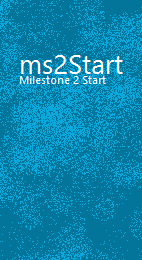
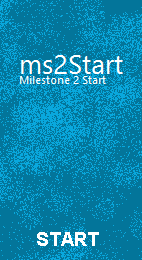
Various Changes 3.40
1. made a actual MS Help splash screen
2. Renamed the default forms, and the titles.
3. Added a "Browser" on IE.

Changed region(s): [[0.2535, 0.8923, 0.7042, 0.9538]]

diff --git a/MS2start/MShelp/Splash.Designer.cs b/MS2start/MShelp/Splash.Designer.cs
@@ -1,0 +1,98 @@
+namespace MShelp
+{
+    partial class Splash
+    {
+        /// <summary>
+        /// Required designer variable.
+        /// </summary>
+        private System.ComponentModel.IContainer components = null;
+
+        /// <summary>
+        /// Clean up any resources being used.
+        /// </summary>
+        /// <param name="disposing">true if managed resources should be disposed; otherwise, false.</param>
+        protected override void Dispose(bool disposing)
+        {
+            if (disposing && (components != null))
+            {
+                components.Dispose();
+            }
+            base.Dispose(disposing);
+        }
+
+        #region Windows Form Designer generated code
+
+        /// <summary>
+        /// Required method for Designer support - do not modify
+        /// the contents of this method with the code editor.
+        /// </summary>
+        private void InitializeComponent()
+        {
+            this.label1 = new System.Windows.Forms.Label();
+            this.pictureBox1 = new System.Windows.Forms.PictureBox();
+            this.panel1 = new System.Windows.Forms.Panel();
+            ((System.ComponentModel.ISupportInitialize)(this.pictureBox1)).BeginInit();
+            this.panel1.SuspendLayout();
+            this.SuspendLayout();
+            // 
+            // label1
+            // 
+            this.label1.Anchor = System.Windows.Forms.AnchorStyles.None;
+            this.label1.AutoSize = true;
+            this.label1.Font = new System.Drawing.Font("Segoe UI Light", 24F, System.Drawing.FontStyle.Regular, System.Drawing.GraphicsUnit.Point, ((byte)(0)));
+            this.label1.ForeColor = System.Drawing.Color.White;
+            this.label1.Location = new System.Drawing.Point(7, 47);
+            this.label1.Name = "label1";
+            this.label1.Size = new System.Drawing.Size(135, 45);
+            this.label1.TabIndex = 0;
+            this.label1.Text = "MS Help";
+            // 
+            // pictureBox1
+            // 
+            this.pictureBox1.Anchor = System.Windows.Forms.AnchorStyles.None;
+            this.pictureBox1.BackgroundImage = global::MShelp.Properties.Resources.SplashLogo;
+            this.pictureBox1.BackgroundImageLayout = System.Windows.Forms.ImageLayout.Center;
+            this.pictureBox1.Location = new System.Drawing.Point(60, 14);
+            this.pictureBox1.Name = "pictureBox1";
+            this.pictureBox1.Size = new System.Drawing.Size(27, 30);
+            this.pictureBox1.TabIndex = 1;
+            this.pictureBox1.TabStop = false;
+            // 
+            // panel1
+            // 
+            this.panel1.Anchor = ((System.Windows.Forms.AnchorStyles)((((System.Windows.Forms.AnchorStyles.Top | System.Windows.Forms.AnchorStyles.Bottom) 
+            | System.Windows.Forms.AnchorStyles.Left) 
+            | System.Windows.Forms.AnchorStyles.Right)));
+            this.panel1.Controls.Add(this.pictureBox1);
+            this.panel1.Controls.Add(this.label1);
+            this.panel1.Location = new System.Drawing.Point(223, 224);
+            this.panel1.Name = "panel1";
+            this.panel1.Size = new System.Drawing.Size(149, 99);
+            this.panel1.TabIndex = 2;
+            // 
+            // Splash
+            // 
+            this.AutoScaleDimensions = new System.Drawing.SizeF(6F, 13F);
+            this.AutoScaleMode = System.Windows.Forms.AutoScaleMode.Font;
+            this.BackColor = System.Drawing.Color.Red;
+            this.ClientSize = new System.Drawing.Size(594, 520);
+            this.Controls.Add(this.panel1);
+            this.Font = new System.Drawing.Font("Segoe UI Light", 8.25F, System.Drawing.FontStyle.Regular, System.Drawing.GraphicsUnit.Point, ((byte)(0)));
+            this.FormBorderStyle = System.Windows.Forms.FormBorderStyle.None;
+            this.Name = "Splash";
+            this.Text = "Splash";
+            this.WindowState = System.Windows.Forms.FormWindowState.Maximized;
+            ((System.ComponentModel.ISupportInitialize)(this.pictureBox1)).EndInit();
+            this.panel1.ResumeLayout(false);
+            this.panel1.PerformLayout();
+            this.ResumeLayout(false);
+
+        }
+
+        #endregion
+
+        private System.Windows.Forms.Label label1;
+        private System.Windows.Forms.PictureBox pictureBox1;
+        private System.Windows.Forms.Panel panel1;
+    }
+}

diff --git a/MS2start/MShelp/Properties/Resources.Designer.cs b/MS2start/MShelp/Properties/Resources.Designer.cs
@@ -8,10 +8,10 @@
 // </auto-generated>
 //------------------------------------------------------------------------------
 
-namespace MShelp.Properties
-{
-
-
+namespace MShelp.Properties {
+    using System;
+    
+    
     /// <summary>
     ///   A strongly-typed resource class, for looking up localized strings, etc.
     /// </summary>
@@ -19,52 +19,54 @@ namespace MShelp.Properties
     // class via a tool like ResGen or Visual Studio.
     // To add or remove a member, edit your .ResX file then rerun ResGen
     // with the /str option, or rebuild your VS project.
-    [global::System.CodeDom.Compiler.GeneratedCodeAttribute("System.Resources.Tools.StronglyTypedResourceBuilder", "4.0.0.0")]
+    [global::System.CodeDom.Compiler.GeneratedCodeAttribute("System.Resources.Tools.StronglyTypedResourceBuilder", "15.0.0.0")]
     [global::System.Diagnostics.DebuggerNonUserCodeAttribute()]
     [global::System.Runtime.CompilerServices.CompilerGeneratedAttribute()]
-    internal class Resources
-    {
-
+    internal class Resources {
+        
         private static global::System.Resources.ResourceManager resourceMan;
-
+        
         private static global::System.Globalization.CultureInfo resourceCulture;
-
+        
         [global::System.Diagnostics.CodeAnalysis.SuppressMessageAttribute("Microsoft.Performance", "CA1811:AvoidUncalledPrivateCode")]
-        internal Resources()
-        {
+        internal Resources() {
         }
-
+        
         /// <summary>
         ///   Returns the cached ResourceManager instance used by this class.
         /// </summary>
         [global::System.ComponentModel.EditorBrowsableAttribute(global::System.ComponentModel.EditorBrowsableState.Advanced)]
-        internal static global::System.Resources.ResourceManager ResourceManager
-        {
-            get
-            {
-                if ((resourceMan == null))
-                {
+        internal static global::System.Resources.ResourceManager ResourceManager {
+            get {
+                if (object.ReferenceEquals(resourceMan, null)) {
                     global::System.Resources.ResourceManager temp = new global::System.Resources.ResourceManager("MShelp.Properties.Resources", typeof(Resources).Assembly);
                     resourceMan = temp;
                 }
                 return resourceMan;
             }
         }
-
+        
         /// <summary>
         ///   Overrides the current thread's CurrentUICulture property for all
         ///   resource lookups using this strongly typed resource class.
         /// </summary>
         [global::System.ComponentModel.EditorBrowsableAttribute(global::System.ComponentModel.EditorBrowsableState.Advanced)]
-        internal static global::System.Globalization.CultureInfo Culture
-        {
-            get
-            {
+        internal static global::System.Globalization.CultureInfo Culture {
+            get {
                 return resourceCulture;
             }
-            set
-            {
+            set {
                 resourceCulture = value;
+            }
+        }
+        
+        /// <summary>
+        ///   Looks up a localized resource of type System.Drawing.Bitmap.
+        /// </summary>
+        internal static System.Drawing.Bitmap SplashLogo {
+            get {
+                object obj = ResourceManager.GetObject("SplashLogo", resourceCulture);
+                return ((System.Drawing.Bitmap)(obj));
             }
         }
     }

diff --git a/MS2start/immersiveIE/Browser.Designer.cs b/MS2start/immersiveIE/Browser.Designer.cs
@@ -1,6 +1,6 @@
-namespace Start
+namespace immersiveIE
 {
-    partial class Form1
+    partial class Browser
     {
         /// <summary>
         /// Required designer variable.
@@ -28,13 +28,33 @@
         /// </summary>
         private void InitializeComponent()
         {
-            this.components = new System.ComponentModel.Container();
+            this.webBrowser1 = new System.Windows.Forms.WebBrowser();
+            this.SuspendLayout();
+            // 
+            // webBrowser1
+            // 
+            this.webBrowser1.Location = new System.Drawing.Point(2, 2);
+            this.webBrowser1.MinimumSize = new System.Drawing.Size(20, 20);
+            this.webBrowser1.Name = "webBrowser1";
+            this.webBrowser1.Size = new System.Drawing.Size(796, 397);
+            this.webBrowser1.TabIndex = 0;
+            // 
+            // Browser
+            // 
+            this.AutoScaleDimensions = new System.Drawing.SizeF(6F, 13F);
             this.AutoScaleMode = System.Windows.Forms.AutoScaleMode.Font;
+            this.BackColor = System.Drawing.Color.Black;
             this.ClientSize = new System.Drawing.Size(800, 450);
-            this.Text = "Form1";
+            this.Controls.Add(this.webBrowser1);
+            this.Name = "Browser";
+            this.Text = "Immersive IE";
+            this.ResumeLayout(false);
+
         }
 
         #endregion
+
+        private System.Windows.Forms.WebBrowser webBrowser1;
     }
 }
 

diff --git a/MS2start/MShelp/Properties/AssemblyInfo.cs b/MS2start/MShelp/Properties/AssemblyInfo.cs
@@ -5,12 +5,12 @@ using System.Runtime.InteropServices;
 // General Information about an assembly is controlled through the following
 // set of attributes. Change these attribute values to modify the information
 // associated with an assembly.
-[assembly: AssemblyTitle("MShelp")]
+[assembly: AssemblyTitle("MS2start - MShelp")]
 [assembly: AssemblyDescription("")]
 [assembly: AssemblyConfiguration("")]
-[assembly: AssemblyCompany("")]
+[assembly: AssemblyCompany("BetaLike")]
 [assembly: AssemblyProduct("MShelp")]
-[assembly: AssemblyCopyright("Copyright ©  2019")]
+[assembly: AssemblyCopyright("Copyright © BetaLike 2019")]
 [assembly: AssemblyTrademark("")]
 [assembly: AssemblyCulture("")]
 

diff --git a/MS2start/Start/Properties/AssemblyInfo.cs b/MS2start/Start/Properties/AssemblyInfo.cs
@@ -5,8 +5,8 @@ using System.Runtime.InteropServices;
 // General Information about an assembly is controlled through the following
 // set of attributes. Change these attribute values to modify the information
 // associated with an assembly.
-[assembly: AssemblyTitle("MS2start")]
-[assembly: AssemblyDescription("A set of applications dedicated to remake the Early-Metro look of Builds 7927 and 7955")]
+[assembly: AssemblyTitle("MS2start - Start")]
+[assembly: AssemblyDescription("A set of applications dedicated to replicate the Early-Metro look of Builds 7927 and 7955")]
 [assembly: AssemblyConfiguration("")]
 [assembly: AssemblyCompany("BetaLike")]
 [assembly: AssemblyProduct("MS2start")]

diff --git a/MS2start/MShelp/MainApp.cs b/MS2start/MShelp/MainApp.cs
@@ -8,11 +8,11 @@ using System.Text;
 using System.Threading.Tasks;
 using System.Windows.Forms;
 
-namespace immersiveIE
+namespace MShelp
 {
-    public partial class Form1 : Form
+    public partial class MainApp : Form
     {
-        public Form1()
+        public MainApp()
         {
             InitializeComponent();
         }

diff --git a/MS2start/immersiveIE/Browser.cs b/MS2start/immersiveIE/Browser.cs
@@ -8,11 +8,11 @@ using System.Text;
 using System.Threading.Tasks;
 using System.Windows.Forms;
 
-namespace Start
+namespace immersiveIE
 {
-    public partial class Form1 : Form
+    public partial class Browser : Form
     {
-        public Form1()
+        public Browser()
         {
             InitializeComponent();
         }

diff --git a/MS2start/immersiveIE/Program.cs b/MS2start/immersiveIE/Program.cs
@@ -16,7 +16,7 @@ namespace immersiveIE
         {
             Application.EnableVisualStyles();
             Application.SetCompatibleTextRenderingDefault(false);
-            Application.Run(new Form1());
+            Application.Run(new Browser());
         }
     }
 }

diff --git a/MS2start/MShelp/Program.cs b/MS2start/MShelp/Program.cs
@@ -16,7 +16,7 @@ namespace MShelp
         {
             Application.EnableVisualStyles();
             Application.SetCompatibleTextRenderingDefault(false);
-            Application.Run(new Form1());
+            Application.Run(new Splash());
         }
     }
 }

diff --git a/MS2start/MShelp/Splash.cs b/MS2start/MShelp/Splash.cs
@@ -10,9 +10,9 @@ using System.Windows.Forms;
 
 namespace MShelp
 {
-    public partial class Form1 : Form
+    public partial class Splash : Form
     {
-        public Form1()
+        public Splash()
         {
             InitializeComponent();
         }

diff --git a/MS2start/MShelp/MainApp.Designer.cs b/MS2start/MShelp/MainApp.Designer.cs
@@ -1,6 +1,6 @@
 namespace MShelp
 {
-    partial class Form1
+    partial class MainApp
     {
         /// <summary>
         /// Required designer variable.
